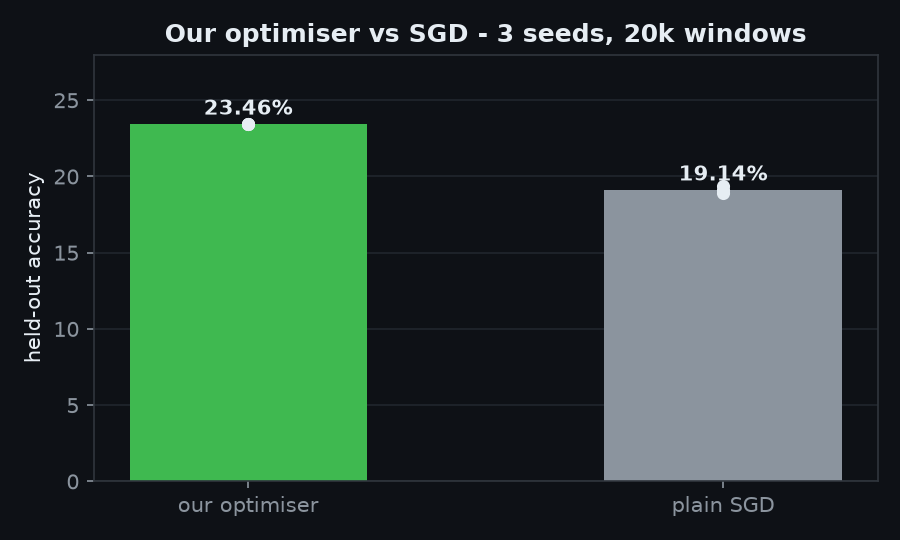
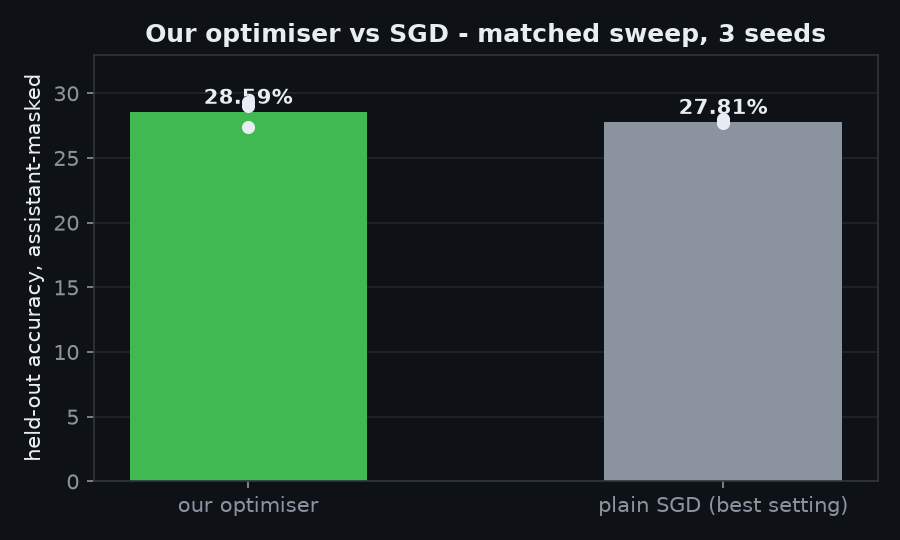
docs: retract the "+4.3 points optimiser" claim - it compared two different metrics
The published optimiser win (23.46% vs 19.14%, "+4.3 points, 3 seeds") was traced number by number
and does not survive: the 23.4x figures are assistant-masked accuracies from epochs 11, 12 and 9 of
two seeds of ONE arm (lens/runs/OPT-VS-SGD.txt:1302,1303,2076), while 18.93/19.35/19.14 are plain VAL
accuracies from three unrelated runs, one of them our own method rather than SGD
(LR-AGREE-SWEEP.txt:1316, LR-PUSH.txt:2918, LAMCONCEPT.txt:2590). Masking alone moves a number ~13
points in the same epoch (OPT-VS-SGD.txt:1449 14.27 vs 27.46), so that gap measured the metric switch.

Replaced with the matched sweep (lens/runs/OPT-VS-SGD-TABLE.txt, 16 arms, one recipe, 3 seeds):
our relgrad --opt-lr 0.5 28.59% vs SGD lr 1.0 27.81% best-epoch mean (+0.78), 29.12 vs 27.15 at
matched epoch (+1.98); pre-registered P42d PASS (within 1.00), P42e stability FAIL. Level, not a win.

Also: gradient check re-run live 9/9 PASS, worst abs 7.484e-10, worst rel 1.815e-07 (unchanged claim,
now reproducible); README's four dead docs/history citations repointed; Python size 91k -> 105k (measured
104,724); chart regenerated from the matched numbers. Full audit: docs/history/PUBLIC-NUMBER-AUDIT.md.

diff --git a/docs/assets/make_charts.py b/docs/assets/make_charts.py
@@ -24,17 +24,17 @@ ax.set_title("Measured results - every bar is a real run", color=FG, fontsize=12
 ax.grid(axis="y", color="#21262d"); ax.set_axisbelow(True)
 finish(fig, "results.png")
 
-# 2) our optimiser vs plain SGD, 3 seeds
+# 2) our optimiser vs plain SGD, matched sweep, 3 seeds (lens/runs/OPT-VS-SGD-TABLE.txt)
 fig, ax = plt.subplots(figsize=(6,3.6))
 xs = [0,1]
-means = [23.46, 19.14]
-seeds = [[23.44,23.47,23.46],[18.93,19.35,19.14]]
+means = [28.59, 27.81]
+seeds = [[29.32,29.03,27.43],[27.99,27.68,27.76]]
 for i,(m,ss) in enumerate(zip(means,seeds)):
     ax.bar(i, m, color=ACC if i==0 else MUT, width=.5)
     ax.scatter([i]*len(ss), ss, color=FG, zorder=3, s=28)
     ax.text(i, m+0.6, f"{m:.2f}%", ha="center", color=FG, weight="bold")
-ax.set_xticks(xs); ax.set_xticklabels(["our optimiser","plain SGD"]); ax.set_ylim(0,28)
-ax.set_ylabel("held-out accuracy"); ax.set_title("Our optimiser vs SGD - 3 seeds, 20k windows", color=FG, fontsize=12, weight="bold")
+ax.set_xticks(xs); ax.set_xticklabels(["our optimiser","plain SGD (best setting)"]); ax.set_ylim(0,33)
+ax.set_ylabel("held-out accuracy, assistant-masked"); ax.set_title("Our optimiser vs SGD - matched sweep, 3 seeds", color=FG, fontsize=12, weight="bold")
 ax.grid(axis="y", color="#21262d"); ax.set_axisbelow(True)
 finish(fig, "optimiser_vs_sgd.png")
 

diff --git a/README.md b/README.md
@@ -22,7 +22,7 @@ text, you get text back, and nothing in between is inspectable. GlassNet is buil
 gradient is derived by hand, every layer can be opened, every middle neuron carries a human-readable name
 like `is_a_question`, and every claim in this repository traces back to a log file you can read.
 
-It is **not a chatbot and not a product**. It is a working research system: about 91,000 lines of Python, no
+It is **not a chatbot and not a product**. It is a working research system: about 105,000 lines of Python, no
 PyTorch, no autograd library, no pretrained weights — a complete training and inspection stack written from
 zero, published at the stage it is actually in.
 
@@ -41,7 +41,7 @@ are looking for a capable assistant, this is not it yet — and this file will s
 | Built | What it does | Evidence |
 |---|---|---|
 | **Autograd engine** | every operation has a hand-written derivative; blame flows backwards through a graph | all 9 gradient checks PASS — worst absolute error **7.5e-10**, worst relative **1.8e-07** (measured live) |
-| **Own optimiser** | steps scaled by agreement between batch and held-out gradients | **23.46%** vs SGD **19.14%**, 3 seeds |
+| **Own optimiser** | steps scaled by agreement between batch and held-out gradients | **28.59%** vs SGD **27.81%** best-epoch mean, 3 seeds — level with SGD, not a win |
 | **Own KV cache** | reuses attention state instead of recomputing | **9.7x faster**, identical output |
 | **Compute core** | recurrent state carried across all 32 positions | 131,328 params, 0.0027 ms/token |
 | **Named concept layer** | 256 neurons with audited human names | unprovable names dropped, coverage printed |
@@ -180,7 +180,7 @@ including the ones that killed our own ideas.
 | Component | State | Measured evidence |
 |---|---|---|
 | Autograd engine (`lens/tensor.py`) | **works** | all 9 checks PASS — worst absolute error **7.5e-10**, worst relative **1.8e-07** |
-| Our optimiser (`lens/opt.py`) | **works, beats baseline** | **23.46%** vs plain SGD **19.14%** held-out, 3 seeds, 20k windows |
+| Our optimiser (`lens/opt.py`) | **works, level with SGD** | **28.59%** vs plain SGD **27.81%** best-epoch mean over 3 seeds (29.12% vs 27.15% at matched epoch); the pre-registered stability bar failed |
 | KV cache (`lens/kvcache.py`) | **works** | **9.7x faster** generation, byte-identical output |
 | Live inspector (`lens/liveview.py`) | **works** | serves real weights and live neuron activations on port 8770 |
 | Exports | **works** | `.npz`, `.safetensors`, `.gguf` |
@@ -300,15 +300,18 @@ runs/                 checkpoints and logs (gitignored)
 
 ## Verifying the numbers yourself
 
-Nothing here asks you to trust a claim. Each result has a file:
+Nothing here asks you to trust a claim. Each result has a file you can open, plus the raw per-run log that
+produced it. Raw logs are written to `lens/runs/` in the working tree; they are large and machine-local, so
+`.gitignore` keeps them out of git. The second column is always a tracked file, the third is the raw log.
 
-| Claim | File |
-|---|---|
-| best score 37.37% | `docs/history/` run logs, `runs/chat/*_best.npz` |
-| our architecture lost | `docs/history/ARCH-OURS-VERDICT.txt` |
-| attention lost 5.41 points | `docs/history/GATE-B-VERDICT.txt` |
-| optimiser beats SGD | agreement/learning-rate sweep logs |
-| arithmetic 0.0% unseen | `docs/history/ARITHMETIC.txt`, `ARITH_DIAG.txt` |
+| Claim | Read it in | Raw log |
+|---|---|---|
+| best score 37.37% | `docs/history/STATE.md`, `docs/RESULTS.md` | `lens/runs/TIED-D512-EXT6.txt` (epoch-6 row), `lens/runs/chat/*_best.npz` |
+| our architecture lost 1.73 points | `docs/RESULTS.md` | `lens/runs/ARCH-OURS-VERDICT.txt` |
+| attention lost 5.41 points | `docs/RESULTS.md` | `lens/runs/GATE-B-VERDICT.txt` |
+| optimiser is level with SGD | `docs/RESULTS.md`, `docs/history/STATE.md` | `lens/runs/OPT-VS-SGD-TABLE.txt` (16 arms, 3 seeds) |
+| arithmetic 0.0% unseen | `docs/RESULTS.md` | `lens/runs/ARITHMETIC.txt`, `lens/runs/ARITH_DIAG.txt` |
+| what was audited, and what was not | `docs/history/PUBLIC-NUMBER-AUDIT.md` | — |
 
 ## Roadmap
 

diff --git a/STATUS.md b/STATUS.md
@@ -1,13 +1,13 @@
 # Where GlassNet is right now
 
-Updated: 2026-11-06. Every figure below comes from a run recorded in `docs/history/`.
+Updated: 2026-11-06. Every figure below comes from a run recorded in `docs/history/` or `lens/runs/`.
 
 ## Honest completion
 
 | Area | Done | Note |
 |---|---:|---|
 | Autograd engine | 100% | gradients verified to 7.5e-10 abs / 1.8e-07 rel (live check, 9/9 PASS) |
-| Our optimiser | 100% | beats SGD by 4.3 points, 3 seeds |
+| Our optimiser | 100% | built and measured; the matched 3-seed sweep puts it +0.78 points over SGD's best setting (28.59% vs 27.81%) and level at matched epoch, and it fails the stability bar - not the 4.3 points once published |
 | KV cache | 100% | 9.7x faster, identical output |
 | Exports (npz/safetensors/gguf) | 95% | safetensors export of the best checkpoint pending |
 | Local server | 95% | serves, not yet load-tested |
@@ -37,7 +37,7 @@ repository are the proof of that.
 | Best held-out accuracy | 37.37% | d=512, full corpus, 6 epochs |
 | d=256 full corpus | 35.26% | |
 | d=256, 2M windows | 24.20% | seed 1 |
-| Optimiser vs SGD | 23.46% vs 19.14% | 3 seeds |
+| Optimiser vs SGD (matched sweep, 3 seeds) | 28.59% vs 27.81% best-epoch mean; 29.12% vs 27.15% at matched epoch | `docs/history/PUBLIC-NUMBER-AUDIT.md` |
 | Gradient check | 7.5e-10 abs / 1.8e-07 rel (live check, 9/9 PASS) max error | `tests/test_gradcheck.py` |
 | KV cache speedup | 9.7x | `lens/kvcache.py` |
 | Arithmetic, unseen operands | 0.0% exact | digit 0 alone: 100% |
